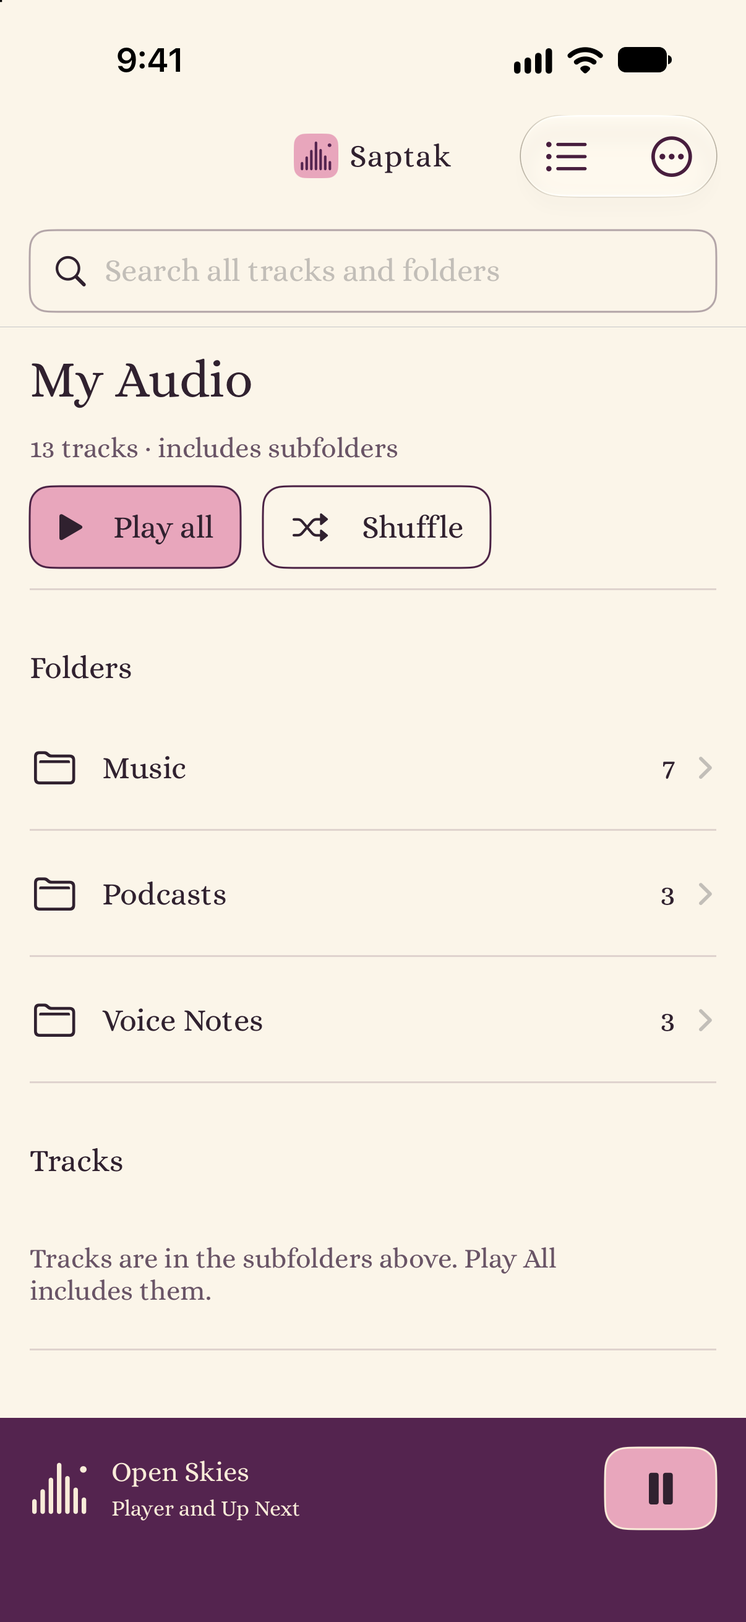
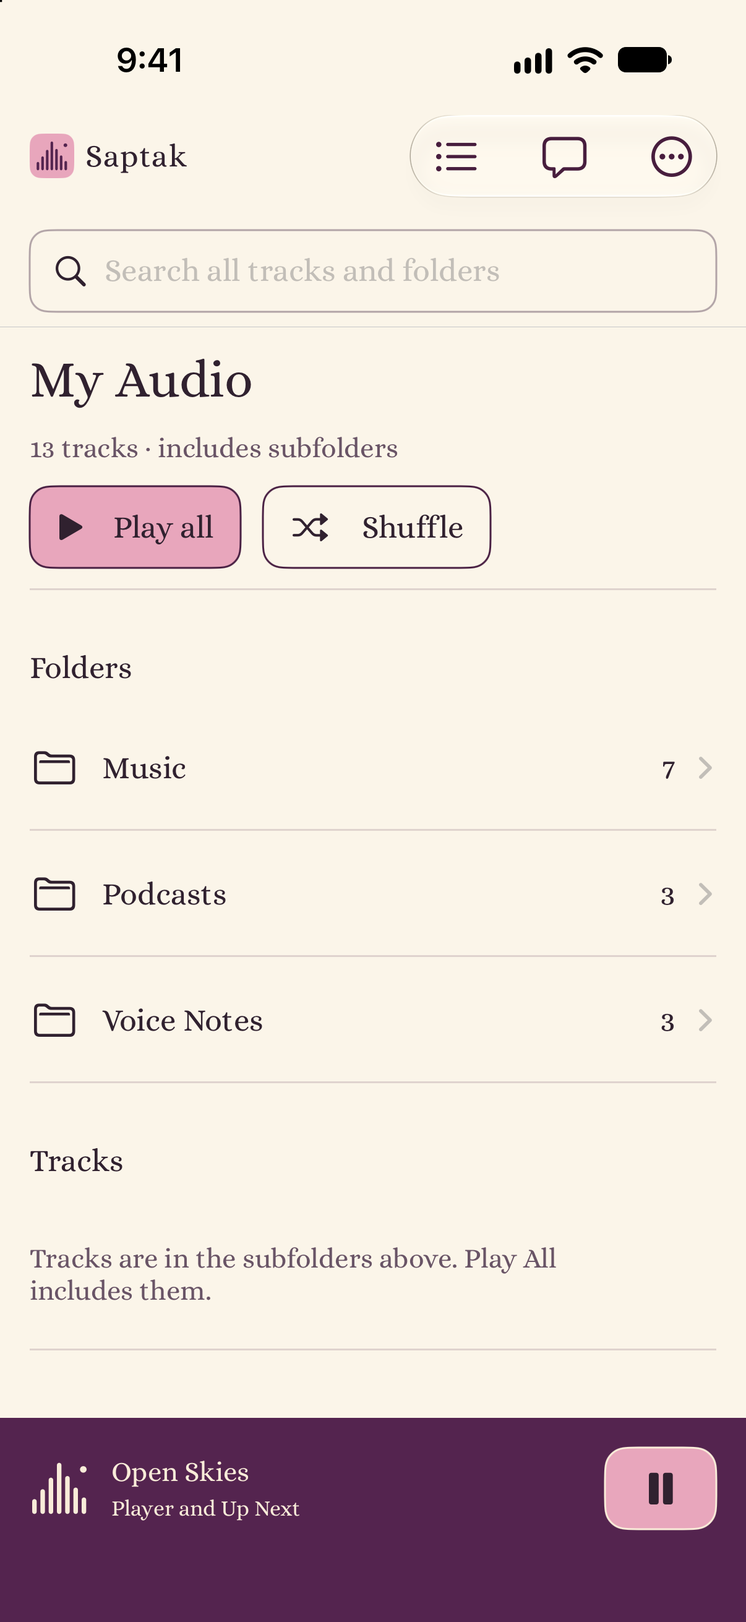
Preview Saptak 0.2.0 and refresh release screenshots

Changed region(s): [[0.3988, 0.0618, 0.6443, 0.1236], [0.0307, 0.0618, 0.2454, 0.1236], [0.7056, 0.0618, 0.7977, 0.1236]]

diff --git a/privacy.html b/privacy.html
@@ -16,5 +16,5 @@
     <meta name="twitter:image" content="https://gogrinimish.github.io/Saptak/assets/saptak-share.png">
     <meta name="twitter:image:alt" content="Saptak. Your audio. Yours to play. An open-source audio player.">
 </head>
-<body><a class="skip" href="#main">Skip to content</a><header class="site-header"><a class="brand" href="./"><img src="assets/icon.svg" width="42" height="42" alt=""><span>Saptak</span></a><nav aria-label="Main navigation"><a href="./">Back to Saptak</a><a class="header-coffee" href="https://www.buymeacoffee.com/HWRxT65O5I" aria-label="Support Saptak on Buy Me a Coffee"><img src="assets/buy-me-a-coffee.svg" width="16" height="23" alt="" aria-hidden="true"><span class="donation-label">Buy me a coffee</span><span class="donation-short-label" aria-hidden="true">Buy a coffee</span></a></nav></header><main class="policy" id="main"><p class="eyebrow">Last updated October 27, 2026</p><h1>Your audio.<br>Your privacy.</h1><p>Saptak has no account system, analytics, advertising, subscriptions or application backend. It does not upload your audio to a Saptak service or permanently import it into a private library.</p><h2>Your files stay yours</h2><p>You choose a folder. Saptak opens original recordings read-only and uses native bookmarks to retain permission to reopen your selection. It stores folder access preferences, the last playback queue, file URLs and playback position locally in its own app storage. These are not used for tracking.</p><h2>Cloud folders and downloads</h2><p>iCloud Drive and other document providers may download or cache files through operating-system services. Downloads can use device storage and providers may later evict them. AirPlay and document providers may use the network; Saptak does not operate a cloud service.</p><h2>Search, metadata and sharing</h2><p>Search uses names and paths in your current library scan. Queries are not saved or sent to a service. Embedded titles, artists, albums and artwork are read for current playback without changing the source file.</p><p>Sharing happens only when you request it, through the system share interface. The operating system or your chosen destination may create an export copy or upload the file. Cloud files may need to download before sharing.</p><h2>System playback controls</h2><p>Native system controls receive track titles, available artist/album/artwork, playback timing and queue context. Saptak does not publish file URLs or full paths to those surfaces. Apple-managed playback surfaces and diagnostics remain subject to operating-system settings and behavior.</p><h2>Retention and deletion</h2><p>Saptak retains the selected folder bookmark, last playback queue and playback position locally until they are replaced or the app's local data is removed. Choosing another folder replaces the saved folder selection. Removing local app data does not delete your original audio.</p><p>On iPhone or iPad, Delete App removes Saptak's local app data; Offload App keeps it. On Mac, deleting the app can leave its container data behind; see <a href="support.html">support</a> for local-data removal guidance. Operating-system backups and provider-managed downloads are controlled separately by Apple and the relevant provider.</p><h2>Questions</h2><p>For help or privacy questions, use the <a href="support.html">support page</a> or <a href="https://github.com/gogrinimish/Saptak/issues">open a GitHub issue</a>. Reports are public and require a GitHub account. There is no Saptak server account or server-side listening record to delete. Do not include private audio or personal file details in public reports.</p><h2>Beta testing and feedback</h2><p>Apple operates TestFlight distribution and its feedback tools. For beta feedback, use TestFlight, and avoid attaching personal audio, file paths or sensitive screenshots.</p><h2>This website</h2><p>This site adds no analytics scripts, tracking pixels, third-party font requests or cookies. GitHub Pages hosts the site and may process standard web request information under <a href="https://docs.github.com/en/site-policy/privacy-policies/github-general-privacy-statement">GitHub’s privacy statement</a>. Alice is served with the site, so loading the font does not contact a font service. The optional support link takes you to Buy Me a Coffee, which has its own privacy practices.</p></main><footer><a class="brand" href="./"><span>Saptak</span></a><p>Your audio. Yours to play.</p><a href="privacy.html" aria-current="page">Privacy</a><a href="support.html">Support</a><a href="assets/fonts/OFL.txt">Font license</a></footer></body>
+<body><a class="skip" href="#main">Skip to content</a><header class="site-header"><a class="brand" href="./"><img src="assets/icon.svg" width="42" height="42" alt=""><span>Saptak</span></a><nav aria-label="Main navigation"><a href="./">Back to Saptak</a><a class="header-coffee" href="https://www.buymeacoffee.com/HWRxT65O5I" aria-label="Support Saptak on Buy Me a Coffee"><img src="assets/buy-me-a-coffee.svg" width="16" height="23" alt="" aria-hidden="true"><span class="donation-label">Buy me a coffee</span><span class="donation-short-label" aria-hidden="true">Buy a coffee</span></a></nav></header><main class="policy" id="main"><p class="eyebrow">Last updated November 10, 2026</p><h1>Your audio.<br>Your privacy.</h1><p>Saptak has no account system, analytics, advertising, subscriptions or application backend. It does not upload your audio to a Saptak service or permanently import it into a private library.</p><h2>Your files stay yours</h2><p>You choose a folder. Saptak opens original recordings read-only and uses native bookmarks to retain permission to reopen your selection. It stores folder access preferences, the last playback queue, file URLs and playback position locally in its own app storage. These are not used for tracking.</p><h2>Cloud folders and downloads</h2><p>iCloud Drive and other document providers may download or cache files through operating-system services. Downloads can use device storage and providers may later evict them. AirPlay and document providers may use the network; Saptak does not operate a cloud service.</p><h2>Search, metadata and sharing</h2><p>Search uses names and paths in your current library scan. Queries are not saved or sent to a service. Embedded titles, artists, albums and artwork are read for current playback without changing the source file.</p><p>Sharing happens only when you request it, through the system share interface. The operating system or your chosen destination may create an export copy or upload the file. Cloud files may need to download before sharing.</p><h2>System playback controls</h2><p>Native system controls receive track titles, available artist/album/artwork, playback timing and queue context. Saptak does not publish file URLs or full paths to those surfaces. Apple-managed playback surfaces and diagnostics remain subject to operating-system settings and behavior.</p><h2>Retention and deletion</h2><p>Saptak retains the selected folder bookmark, last playback queue and playback position locally until they are replaced or the app's local data is removed. Choosing another folder replaces the saved folder selection. Removing local app data does not delete your original audio.</p><p>On iPhone or iPad, Delete App removes Saptak's local app data; Offload App keeps it. On Mac, deleting the app can leave its container data behind; see <a href="support.html">support</a> for local-data removal guidance. Operating-system backups and provider-managed downloads are controlled separately by Apple and the relevant provider.</p><h2>Optional email feedback</h2><p>The 0.2.0 feedback form prepares a message locally. Nothing is sent automatically. App and device details are off for every new report; if enabled, they include only app version/build, OS version and device family. Saptak does not attach audio, logs, device identifiers, library contents or file paths. You can preview the message before opening an email draft or explicitly copying it to the system clipboard.</p><p>If you send the draft, your sender address and message pass through your mail provider and DuckDuckGo's email forwarding service to the developer at <a href="mailto:rising-relax-karma@duck.com">rising-relax-karma@duck.com</a>. Feedback is used to respond and improve the app, not for advertising or tracking. Email correspondence remains outside the app and is not removed by deleting app data. Contact that address to request deletion of feedback correspondence, subject to any applicable retention obligations. Saptak cannot confirm sending or delivery.</p><h2>CarPlay</h2><p>With 0.2.0, a connected CarPlay system can display your chosen folder names, track names, queue and native media metadata for browsing and playback. Saptak does not collect vehicle location or driving history. CarPlay does not provide feedback forms or file sharing.</p><h2>Questions</h2><p>For help or privacy questions, email <a href="mailto:rising-relax-karma@duck.com">rising-relax-karma@duck.com</a> or use the <a href="support.html">support page</a>. GitHub issues are an optional public route requiring an account. There is no Saptak server account or server-side listening record to delete. Do not put private audio or account details in public reports.</p><h2>Beta testing and feedback</h2><p>Apple operates TestFlight distribution and its feedback tools. For beta feedback, use TestFlight, and avoid attaching personal audio, file paths or sensitive screenshots.</p><h2>This website</h2><p>This site adds no analytics scripts, tracking pixels, third-party font requests or cookies. GitHub Pages hosts the site and may process standard web request information under <a href="https://docs.github.com/en/site-policy/privacy-policies/github-general-privacy-statement">GitHub’s privacy statement</a>. Alice is served with the site, so loading the font does not contact a font service. The optional support link takes you to Buy Me a Coffee, which has its own privacy practices.</p></main><footer><a class="brand" href="./"><span>Saptak</span></a><p>Your audio. Yours to play.</p><a href="privacy.html" aria-current="page">Privacy</a><a href="support.html">Support</a><a href="assets/fonts/OFL.txt">Font license</a></footer></body>
 </html>

diff --git a/support.html b/support.html
@@ -16,5 +16,5 @@
     <meta name="twitter:image" content="https://gogrinimish.github.io/Saptak/assets/saptak-share.png">
     <meta name="twitter:image:alt" content="Saptak. Your audio. Yours to play. An open-source audio player.">
 </head>
-<body><a class="skip" href="#main">Skip to content</a><header class="site-header"><a class="brand" href="./"><img src="assets/icon.svg" width="42" height="42" alt=""><span>Saptak</span></a><nav aria-label="Main navigation"><a href="./">Back to Saptak</a><a class="header-coffee" href="https://www.buymeacoffee.com/HWRxT65O5I" aria-label="Support Saptak on Buy Me a Coffee"><img src="assets/buy-me-a-coffee.svg" width="16" height="23" alt="" aria-hidden="true"><span class="donation-label">Buy me a coffee</span><span class="donation-short-label" aria-hidden="true">Buy a coffee</span></a></nav></header><main class="policy" id="main"><p class="eyebrow">Saptak support</p><h1>A little help<br>with your audio.</h1><p>Saptak plays audio directly from folders you choose. It does not import your files or require a Saptak account.</p><h2>Get Saptak</h2><p><a href="https://apps.apple.com/us/app/saptak/id6826395063">Download Saptak from the App Store</a> for iPhone, iPad and Mac. If you are reporting a problem, include the app version shown on your device.</p><h2>Choose a folder</h2><p>Tap Choose folder and select a folder containing audio. On iPhone or iPad, cloud locations appear through Apple's Files app when the provider supports folder access. On Mac, use a local folder or an available Finder location. Every subfolder becomes a playlist; Play all includes its descendants.</p><h2>Missing or unavailable tracks</h2><p>Use Refresh after adding, moving or removing files. If a cloud file is unavailable, check your connection and open it in Files or Finder first. Providers may need to download a file before playback. Saptak cannot play formats unsupported by the device.</p><h2>Playback and AirPlay</h2><p>Check the selected audio output and volume. On iPhone or iPad, use AirPlay in the expanded player; on Mac, choose the output through Control Center or Sound settings. If a receiver also fails with another audio app, check the receiver and network connection.</p><h2>Remove saved settings on Mac</h2><p>Quit Saptak. In Finder, choose Go &gt; Go to Folder and enter <code>~/Library/Containers/com.playsaptak.app</code>. Moving this app container to Trash removes its saved folder access and playback state. Your original audio outside that container stays in place. Relaunch Saptak to choose a folder again.</p><h2>Report a problem</h2><p><a href="https://github.com/gogrinimish/Saptak/issues/new">Open a GitHub issue</a> with your device, operating-system version, Saptak version and steps to reproduce the problem. GitHub issues are public and require a GitHub account. Never attach personal recordings, private file paths or account credentials. Use a fictional example instead.</p><h2>Privacy and source</h2><p>Read the <a href="privacy.html">privacy policy</a> and browse the <a href="https://github.com/gogrinimish/Saptak">MIT-licensed source</a>. Saptak does not collect listening history or operate an account service.</p></main><footer><a class="brand" href="./"><span>Saptak</span></a><p>Your audio. Yours to play.</p><a href="privacy.html">Privacy</a><a href="assets/fonts/OFL.txt">Font license</a></footer></body>
+<body><a class="skip" href="#main">Skip to content</a><header class="site-header"><a class="brand" href="./"><img src="assets/icon.svg" width="42" height="42" alt=""><span>Saptak</span></a><nav aria-label="Main navigation"><a href="./">Back to Saptak</a><a class="header-coffee" href="https://www.buymeacoffee.com/HWRxT65O5I" aria-label="Support Saptak on Buy Me a Coffee"><img src="assets/buy-me-a-coffee.svg" width="16" height="23" alt="" aria-hidden="true"><span class="donation-label">Buy me a coffee</span><span class="donation-short-label" aria-hidden="true">Buy a coffee</span></a></nav></header><main class="policy" id="main"><p class="eyebrow">Saptak support</p><h1>A little help<br>with your audio.</h1><p>Saptak plays audio directly from folders you choose. It does not import your files or require a Saptak account.</p><h2>Get Saptak</h2><p><a href="https://apps.apple.com/us/app/saptak/id6826395063">Download Saptak from the App Store</a> for iPhone, iPad and Mac. If you are reporting a problem, include the app version shown on your device.</p><h2>Choose a folder</h2><p>Tap Choose folder and select a folder containing audio. On iPhone or iPad, cloud locations appear through Apple's Files app when the provider supports folder access. On Mac, use a local folder or an available Finder location. Every subfolder becomes a playlist; Play all includes its descendants.</p><h2>Missing or unavailable tracks</h2><p>Use Refresh after adding, moving or removing files. If a cloud file is unavailable, check your connection and open it in Files or Finder first. Providers may need to download a file before playback. Saptak cannot play formats unsupported by the device.</p><h2>Playback and AirPlay</h2><p>Check the selected audio output and volume. On iPhone or iPad, use AirPlay in the expanded player; on Mac, choose the output through Control Center or Sound settings. If a receiver also fails with another audio app, check the receiver and network connection.</p><h2>Original-file actions in 0.2.0</h2><p>On Mac, open the player's three-dot menu for Show in Finder or Share. On iPhone or iPad, open the expanded player for Show in Files and Share. If a provider cannot reveal a file, use the filename/folder browser fallback. These actions do not move the original.</p><h2>CarPlay in 0.2.0</h2><p>Choose your folder on the iPhone while parked before connecting to CarPlay. Use Folders and Up Next to browse and native Now Playing to control playback. If no folder appears, check permissions and cloud-file availability on the phone. List availability and layout can vary with vehicle restrictions.</p><h2>Remove saved settings on Mac</h2><p>Quit Saptak. In Finder, choose Go &gt; Go to Folder and enter <code>~/Library/Containers/com.playsaptak.app</code>. Moving this app container to Trash removes its saved folder access and playback state. Your original audio outside that container stays in place. Relaunch Saptak to choose a folder again.</p><h2>Report a problem</h2><p>Email <a href="mailto:rising-relax-karma@duck.com">rising-relax-karma@duck.com</a> for private support—no GitHub account is needed. This is a DuckDuckGo forwarding alias. Your mail provider and the forwarding service process messages you choose to send. Include what you tried, what happened and what you expected; leave out private audio, file paths and account credentials.</p><p>In 0.2.0, use the speech-bubble Feedback button in the iOS library toolbar or Mac sidebar. Review the local preview, then open your mail app to send. Device details are off by default. Alternatively, <a href="https://github.com/gogrinimish/Saptak/issues/new">open a public GitHub issue</a>. See <a href="release-notes.html">the 0.2.0 preview notes</a> for availability.</p><h2>Privacy and source</h2><p>Read the <a href="privacy.html">privacy policy</a> and browse the <a href="https://github.com/gogrinimish/Saptak">MIT-licensed source</a>. Saptak does not collect listening history or operate an account service.</p></main><footer><a class="brand" href="./"><span>Saptak</span></a><p>Your audio. Yours to play.</p><a href="privacy.html">Privacy</a><a href="assets/fonts/OFL.txt">Font license</a></footer></body>
 </html>

diff --git a/index.html b/index.html
@@ -64,7 +64,7 @@
     <a class="skip" href="#main">Skip to content</a>
     <header class="site-header">
         <a class="brand" href="./" aria-label="Saptak home"><img src="assets/icon.svg" width="42" height="42" alt=""><span>Saptak</span></a>
-        <nav aria-label="Main navigation"><a href="#experience">The experience</a><a href="#screenshots">A closer look</a><a class="header-coffee" href="https://www.buymeacoffee.com/HWRxT65O5I" aria-label="Support Saptak on Buy Me a Coffee"><img src="assets/buy-me-a-coffee.svg" width="16" height="23" alt="" aria-hidden="true"><span class="donation-label">Buy me a coffee</span><span class="donation-short-label" aria-hidden="true">Buy a coffee</span></a></nav>
+        <nav aria-label="Main navigation"><a href="#experience">The experience</a><a href="#screenshots">A closer look</a><a href="release-notes.html">Updates</a><a class="header-coffee" href="https://www.buymeacoffee.com/HWRxT65O5I" aria-label="Support Saptak on Buy Me a Coffee"><img src="assets/buy-me-a-coffee.svg" width="16" height="23" alt="" aria-hidden="true"><span class="donation-label">Buy me a coffee</span><span class="donation-short-label" aria-hidden="true">Buy a coffee</span></a></nav>
     </header>
     <main id="main">
         <section class="hero" aria-labelledby="hero-title">
@@ -89,9 +89,21 @@
             <div class="section-heading"><div><p class="eyebrow">A closer look</p><h2 id="screens-title">Less managing.<br><em>More listening.</em></h2></div><p>Your own music, a saved conversation, an idea worth keeping. They all have a place here.</p></div>
             <div class="phone-grid"><figure><a href="assets/iphone-library.png" aria-label="View the full iPhone folder browser screenshot"><img loading="lazy" src="assets/iphone-library.png" width="1206" height="2622" alt="Saptak folder browser with Music, Podcasts and Voice Notes, plus Play all and Shuffle"></a><figcaption><span class="step">BROWSE</span><h3>A playlist in every folder.</h3><p>Move through your hierarchy. Play a folder and everything inside it.</p></figcaption></figure><figure><a href="assets/iphone-player.png" aria-label="View the full iPhone player screenshot"><img loading="lazy" src="assets/iphone-player.png" width="1206" height="2622" alt="Now playing in Saptak, with playback progress, repeat all, AirPlay and original-file sharing"></a><figcaption><span class="step">PLAY</span><h3>Make yourself at home.</h3><p>Seek, shuffle, repeat, check Up Next, or share the original file.</p></figcaption></figure></div>
             <figure class="mac-shot"><a href="assets/mac-library.png" aria-label="View the full Mac screenshot"><img loading="lazy" src="assets/mac-library.png" width="2880" height="1800" alt="Saptak on Mac with nested music and podcast folders, track search, Up Next and playback controls"></a><figcaption><h3>At home on your Mac, too.</h3><p>A folder sidebar, your tracks, and a player that stays within reach.</p></figcaption></figure>
-            <p class="caption-note">Actual app screens with fictional sample audio.</p>
+            <p class="caption-note">Actual app screens with fictional sample audio, previewing 0.2.0. Version 0.1.0 is available now.</p>
         </section>
         <section class="details section-pad" aria-labelledby="details-title"><p class="eyebrow">The everyday essentials</p><h2 id="details-title">Small details.<br><em>A smoother listen.</em></h2><div class="feature-grid"><article><h3>Find what you remember</h3><p>Search track and folder names throughout your selected library. See the folder paths that put each result in context.</p></article><article><h3>Pick up where you paused</h3><p>Your last queue and playback position are saved locally. Reopen the app and press Play to continue when your folder is available.</p></article><article><h3>Use familiar controls</h3><p>Control playback from the Lock Screen and Control Center on iPhone, or use media keys on Mac. Send audio through AirPlay using native Apple controls.</p></article><article><h3>Choose where files live</h3><p>Use local folders, iCloud Drive, or other locations available through Files or Finder. Folder access depends on the provider; cloud downloads can use device storage.</p></article></div></section>
+        <section class="details section-pad release-preview" id="updates" aria-labelledby="updates-title">
+            <p class="eyebrow">Next update · 0.2.0</p>
+            <h2 id="updates-title">Your folders.<br><em>Along for the ride.</em></h2>
+            <p class="release-status">Prepared for App Store review. Version 0.1.0 remains the current public release.</p>
+            <div class="feature-grid">
+                <article><h3>Browse in CarPlay</h3><p>Bring your selected audio folder to a compatible CarPlay system. Browse compact folder tiles, start a playlist and use native Now Playing controls. Tiles require iOS 26 or later; earlier versions use lists.</p></article>
+                <article><h3>Get back to the original</h3><p>Reveal your audio in Files or Finder, or explicitly share the file. Your original stays where you keep it.</p></article>
+                <article><h3>More room on Mac</h3><p>A compact player and one menu for file options leave more space for the recordings you came to hear.</p></article>
+                <article><h3>Tell us what you think</h3><p>A visible feedback button opens a private email draft. No GitHub account needed. Optional device details start off, and you review before sending.</p></article>
+            </div>
+            <p><a href="release-notes.html">Read the 0.2.0 release notes <span aria-hidden="true">→</span></a></p>
+        </section>
         <section class="availability section-pad" id="availability" aria-labelledby="availability-title"><div><p class="eyebrow">Now available</p><h2 id="availability-title">Your folders.<br><em>Ready to play.</em></h2></div><div><p>Download Saptak for iPhone, iPad and Mac from the App Store. Free, open-source and made for your own audio.</p><p>Requires iOS or iPadOS 16 or later, or macOS 13 or later. One App Store listing serves all three devices.</p><p><a class="button plum" href="https://apps.apple.com/us/app/saptak/id6826395063">Download Saptak <span aria-hidden="true">↗</span></a></p><p>Need a hand getting started? Read the <a href="guides/play-your-own-audio-on-iphone.html">folder playback guide</a> or visit <a href="support.html">support</a>.</p></div></section>
         <section class="questions section-pad" id="questions" aria-labelledby="questions-title">
             <p class="eyebrow">Before you press Play</p>

diff --git a/release-notes.html b/release-notes.html
@@ -1,0 +1,28 @@
+<!doctype html>
+<html lang="en">
+<head><meta charset="utf-8"><meta name="viewport" content="width=device-width, initial-scale=1"><meta name="description" content="What is new in Saptak 0.2.0: CarPlay, original-file actions, feedback and a more compact Mac player."><meta name="theme-color" content="#54244f"><link rel="icon" href="assets/icon.svg" type="image/svg+xml"><link rel="stylesheet" href="styles.css"><title>Release notes — Saptak</title><link rel="canonical" href="https://gogrinimish.github.io/Saptak/release-notes.html">
+
+    <meta property="og:title" content="Release notes — Saptak">
+    <meta property="og:description" content="What is new in Saptak 0.2.0: CarPlay, original-file actions, feedback and a more compact Mac player.">
+    <meta property="og:type" content="website">
+    <meta property="og:url" content="https://gogrinimish.github.io/Saptak/release-notes.html">
+    <meta property="og:image" content="https://gogrinimish.github.io/Saptak/assets/saptak-share.png">
+    <meta property="og:site_name" content="Saptak">
+    <meta property="og:image:width" content="1200">
+    <meta property="og:image:height" content="630">
+    <meta property="og:image:type" content="image/png">
+    <meta property="og:image:alt" content="Saptak. Your audio. Yours to play. An open-source audio player.">
+    <meta name="twitter:card" content="summary_large_image">
+    <meta name="twitter:image" content="https://gogrinimish.github.io/Saptak/assets/saptak-share.png">
+    <meta name="twitter:image:alt" content="Saptak. Your audio. Yours to play. An open-source audio player.">
+</head>
+<body><a class="skip" href="#main">Skip to content</a><header class="site-header"><a class="brand" href="./"><img src="assets/icon.svg" width="42" height="42" alt=""><span>Saptak</span></a><nav aria-label="Main navigation"><a href="./">Back to Saptak</a><a class="header-coffee" href="https://www.buymeacoffee.com/HWRxT65O5I" aria-label="Support Saptak on Buy Me a Coffee"><img src="assets/buy-me-a-coffee.svg" width="16" height="23" alt="" aria-hidden="true"><span class="donation-label">Buy me a coffee</span><span class="donation-short-label" aria-hidden="true">Buy a coffee</span></a></nav></header><main class="policy" id="main"><p class="eyebrow">Version 0.2.0 · Upcoming</p><h1>Your audio.<br>More within reach.</h1>
+<p>Version 0.2.0 is prepared for App Store review. Version 0.1.0 is available now on the <a href="https://apps.apple.com/us/app/saptak/id6826395063">App Store</a>. These features arrive with 0.2.0 after approval and release.</p>
+<h2>Your folders in CarPlay</h2><p>Choose your audio folder on iPhone while parked, then browse it through a compatible CarPlay system. Start a folder playlist, choose a track or open Up Next. Native Now Playing supplies playback controls. On iOS 26 and later, compact folder tiles show more of the hierarchy without needing artwork; earlier versions use lists. Contents appear before playback shortcuts.</p>
+<h2>Find the original</h2><p>Use Show in Files on iPhone or iPad, or Show in Finder on Mac. When a Files provider cannot reveal the file directly, Saptak offers the filename and a folder browser fallback. Sharing remains explicit and leaves your original in place.</p>
+<h2>A little more room on Mac</h2><p>The smaller player places controls below the track title and seek bar. Original-file actions live in its three-dot menu, keeping the library in view.</p>
+<h2>Feedback without a GitHub account</h2><p>Use the speech-bubble button in the iOS library toolbar or Mac sidebar. Preview your message, then open an email draft or copy it. App and device details are optional and off for each new report. Nothing is sent automatically.</p>
+<h2>A clearer interface</h2><p>Sharing, feedback, cloud help, the font license and Up Next share a themed layout with a clear Done button.</p>
+<h2>Still yours</h2><p>No accounts, analytics, subscriptions or permanent imports. Your existing folder selection and local recovery state are retained. Cloud availability depends on the provider and downloads can use storage. CarPlay requires compatible hardware.</p>
+<p><a href="support.html">Need help?</a> Read the <a href="privacy.html">privacy policy</a> or send feedback to <a href="mailto:rising-relax-karma@duck.com">rising-relax-karma@duck.com</a>.</p></main><footer><a class="brand" href="./"><span>Saptak</span></a><p>Your audio. Yours to play.</p><a href="privacy.html">Privacy</a><a href="assets/fonts/OFL.txt">Font license</a></footer></body>
+</html>

diff --git a/styles.css b/styles.css
@@ -29,3 +29,6 @@ h3,strong,b{font-weight:400}
 
 .coffee-button{background:var(--cream);color:var(--plum);border-color:var(--plum)}
 .coffee-button:hover,.header-coffee:hover{background:#f4e6e9}
+
+.release-preview .release-status{max-width:740px;margin-top:24px;color:var(--muted);font-size:18px;line-height:1.65}
+.release-preview>p:last-child{margin-top:28px}
